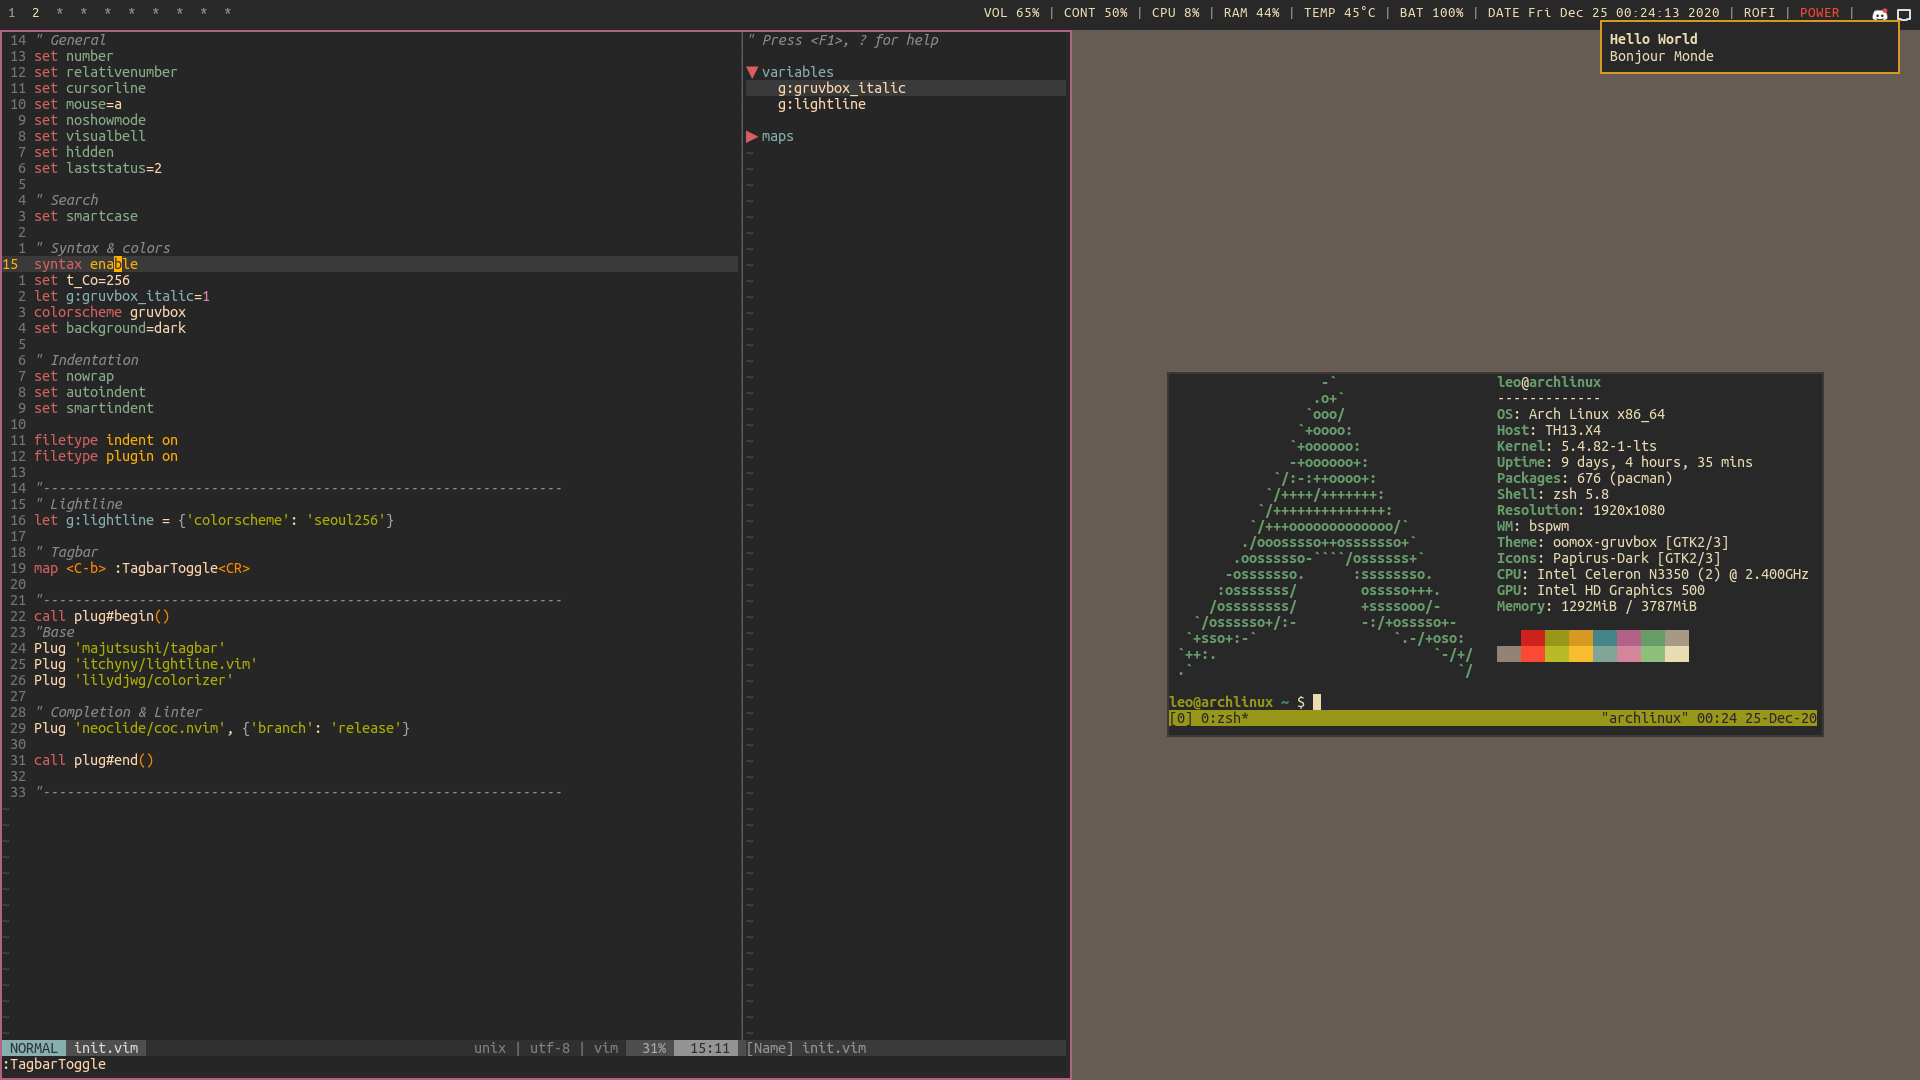
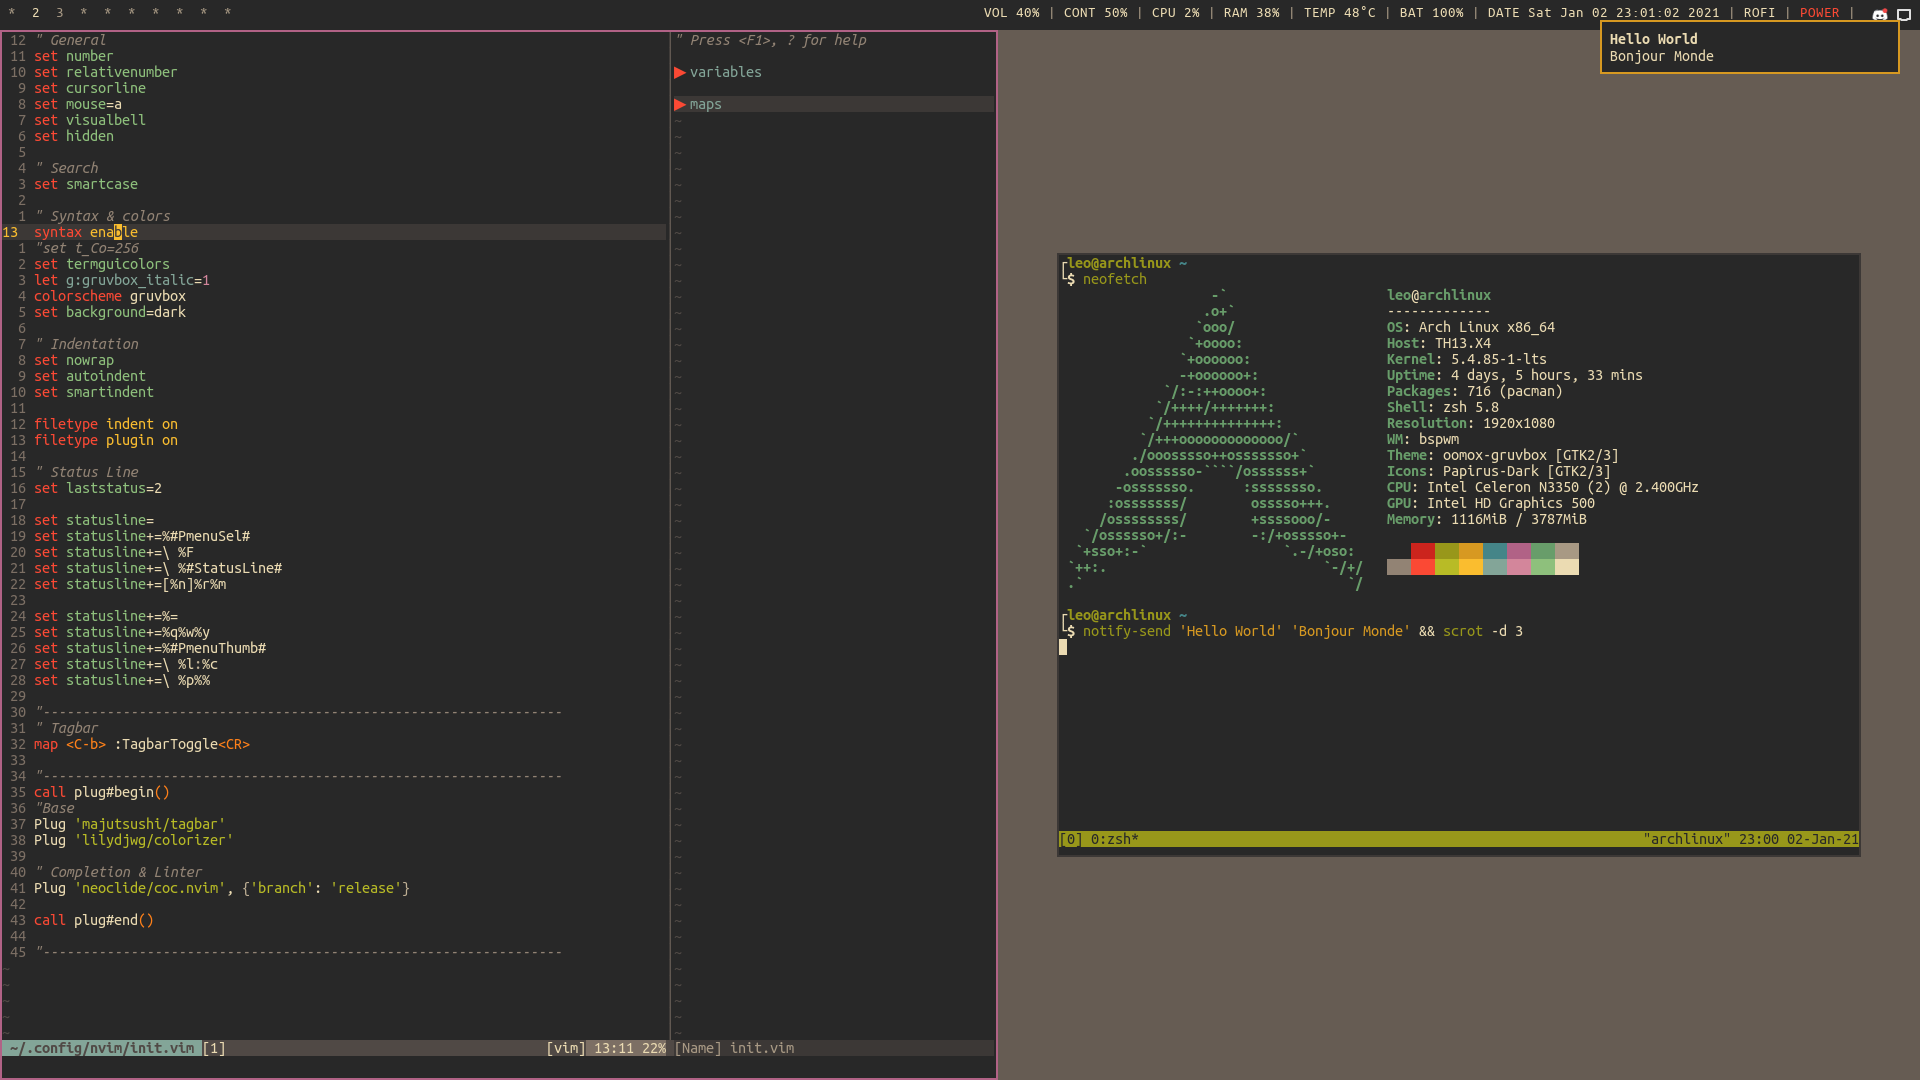
Use a homemade statusline, and true colors for vim

diff --git a/README.md b/README.md
@@ -1,4 +1,3 @@
----
 ![](/Screenshot/screenshot_1.png)
 
 ![](/Screenshot/screenshot_2.png)
@@ -32,7 +31,7 @@ gst-plugins-{...} / xf86-video-vesa (cf archlinux wiki about driver) / pulseaudi
 xorg-server / xorg-xinit / xorg-{...} (xorg-apps) / 
 
 #### Other
-net-tools / acpi /
+net-tools / acpi / imagemagick / man-db / python-pip /
 
 ---
 #### Font
@@ -96,8 +95,6 @@ HandlePowerKey=ignore
 ```
 $ curl -fLo ~/.config/nvim/autoload/plug.vim --create-dirs https://raw.githubusercontent.com/junegunn/vim-plug/master/plug.vim
 ```
-
-- https://github.com/itchyny/lightline.vim
 
 - https://github.com/lilydjwg/colorizer
 
